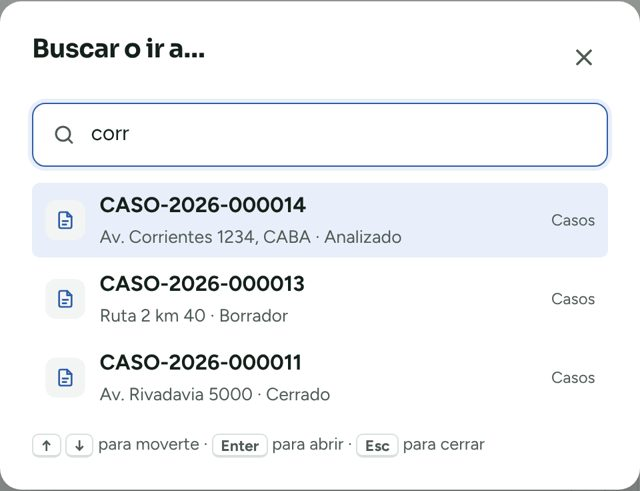
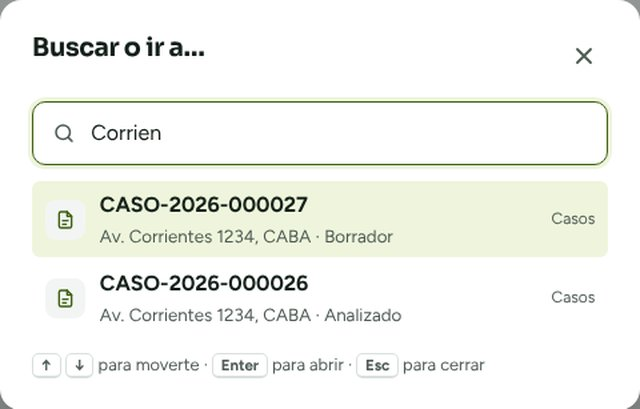
funcionalidad(037): politica de privacidad completa y portada para ambos perfiles
Privacidad: datos de Google, de los pagos y de la verificacion de identidad
(solo el resultado, nunca biometria), fotos de terceros, que no se venden ni
se usan para entrenar, que ve cada miembro de una organizacion y quien trata
los datos (seccion nueva). Portada: textos para casos y siniestros y
capturas del sistema renovadas con la paleta nueva.

Claude-Session: https://claude.ai/code/session_011xuE2fZJQijwRP2muZ7nqt

diff --git a/frontend/src/paginas/PaginaPrivacidad.jsx b/frontend/src/paginas/PaginaPrivacidad.jsx
@@ -98,14 +98,43 @@ export default function PaginaPrivacidad() {
       <h2>1. Qué datos se tratan</h2>
       <p>
         Los datos de tu cuenta (nombre, apellido, correo electrónico, perfil y, si los indicás,
-        colegio de abogados o empresa), las imágenes que cargás en tus casos y los resultados de
-        los análisis.
+        colegio de abogados o empresa), las imágenes que cargás en tus casos o siniestros y los
+        resultados de los análisis.
       </p>
+      <ul>
+        <li>
+          <strong>Si entrás con Google</strong>, recibimos de Google solo tu nombre, tu correo y la
+          confirmación de que está verificado. No vemos tu contraseña ni otros datos de tu cuenta
+          de Google.
+        </li>
+        <li>
+          <strong>Si pagás un plan</strong>, guardamos el plan, el importe, la referencia y el
+          estado del pago. Los datos de la cuenta bancaria desde la que transferís los trata el
+          proveedor de cobros, no la plataforma.
+        </li>
+        <li>
+          <strong>Si sos Referente de una aseguradora</strong> y la verificación de identidad está
+          activa, un proveedor especializado te pide fotos de tu DNI y un video corto de tu rostro.
+          La plataforma guarda solo el resultado (aprobada o rechazada) y una referencia;{' '}
+          <strong>nunca tu DNI, tus fotos ni tus datos biométricos</strong>.
+        </li>
+        <li>
+          <strong>Las fotos pueden mostrar a otras personas</strong> (por ejemplo, el asegurado o
+          un tercero). Quien las carga, o quien pide que las suba la persona afectada con un
+          enlace, es responsable de tener derecho a usarlas para el caso o el siniestro.
+        </li>
+      </ul>
 
       <h2>2. Para qué se usan</h2>
       <p>
         Para identificarte, proteger el acceso a tus casos, realizar los análisis que solicitás y
-        enviarte los correos necesarios para el funcionamiento de la cuenta.
+        enviarte los correos necesarios para el funcionamiento de la cuenta. No se venden ni se
+        ceden a terceros con fines comerciales, y las imágenes no se usan para entrenar modelos.
+      </p>
+      <p>
+        Dentro de una organización (un estudio jurídico o una aseguradora), los demás miembros ven
+        tu nombre y los casos o siniestros del espacio de la organización, según los permisos que
+        les dé su Referente.
       </p>
 
       <h2>3. Cuánto tiempo se conservan</h2>
@@ -148,7 +177,16 @@ export default function PaginaPrivacidad() {
         terceros en tu navegador.
       </p>
 
-      <h2>7. Tus derechos</h2>
+      <h2>7. Quién trata tus datos</h2>
+      <p>
+        evidentIA es responsable del tratamiento. Para prestar el servicio usa proveedores que
+        tratan datos por cuenta de la plataforma: el alojamiento en la Unión Europea, el envío de
+        correos, el cobro de los planes, la verificación de identidad de las aseguradoras y, solo
+        con la huella de los archivos, la red pública Hedera. Ninguno puede usar los datos para
+        fines propios.
+      </p>
+
+      <h2>8. Tus derechos</h2>
       <p>
         Podés acceder a tus datos, rectificarlos y solicitar su supresión, conforme a la Ley N.°
         25.326 de Protección de los Datos Personales. La Agencia de Acceso a la Información

diff --git a/frontend/src/paginas/PaginaPortada.jsx b/frontend/src/paginas/PaginaPortada.jsx
@@ -92,8 +92,8 @@ const MIRADAS = [
 ]
 
 const PASOS = [
-  { titulo: 'Creá el caso', texto: 'Con la fecha y el lugar del hecho.' },
-  { titulo: 'Subí o pedí las fotos', texto: 'Desde tu compu, tu celular o el de tu cliente.' },
+  { titulo: 'Creá el caso o el siniestro', texto: 'Con la fecha y el lugar del hecho.' },
+  { titulo: 'Subí o pedí las fotos', texto: 'Desde tu compu, tu celular o el de tu cliente o asegurado.' },
   { titulo: 'Descargá el informe', texto: 'Sellado y con un código para verificarlo.' },
 ]
 
@@ -269,8 +269,8 @@ export default function PaginaPortada() {
             <span className="portada-recuadro">minutos</span>.
           </h1>
           <p className="portada-heroe__bajada">
-            Subí las fotos de tu caso y evidentIA te muestra, capa por capa, si hay señales de edición o de
-            imagen hecha con IA. Con un informe claro para presentar.
+            Subí las fotos de un caso o de un siniestro y evidentIA te muestra, capa por capa, si hay señales
+            de edición o de imagen hecha con IA. Con un informe claro para presentar o para decidir.
           </p>
           <div className="portada-ctas">
             <Link to="/registro?tipo=independiente" className="portada-pill portada-pill--lima">
@@ -343,7 +343,7 @@ export default function PaginaPortada() {
             <img
               src="/portada/buscador.jpg"
               width="640"
-              height="490"
+              height="409"
               loading="lazy"
               alt="Buscador de evidentIA: escribiendo parte de una dirección aparecen los casos que coinciden"
             />

diff --git a/frontend/src/estilos/global.css b/frontend/src/estilos/global.css
@@ -5909,6 +5909,6 @@ h1.estado-vacio__titulo {
 }
 
 /* Enlaces del contenido en verde. */
-.disposicion--interna main a:not(.boton, .boton-enlace, .flujo-caso__titulo) {
+.disposicion--interna main a:not(.boton, .boton-enlace, .flujo-caso__titulo, .contador) {
   color: var(--verde);
 }
